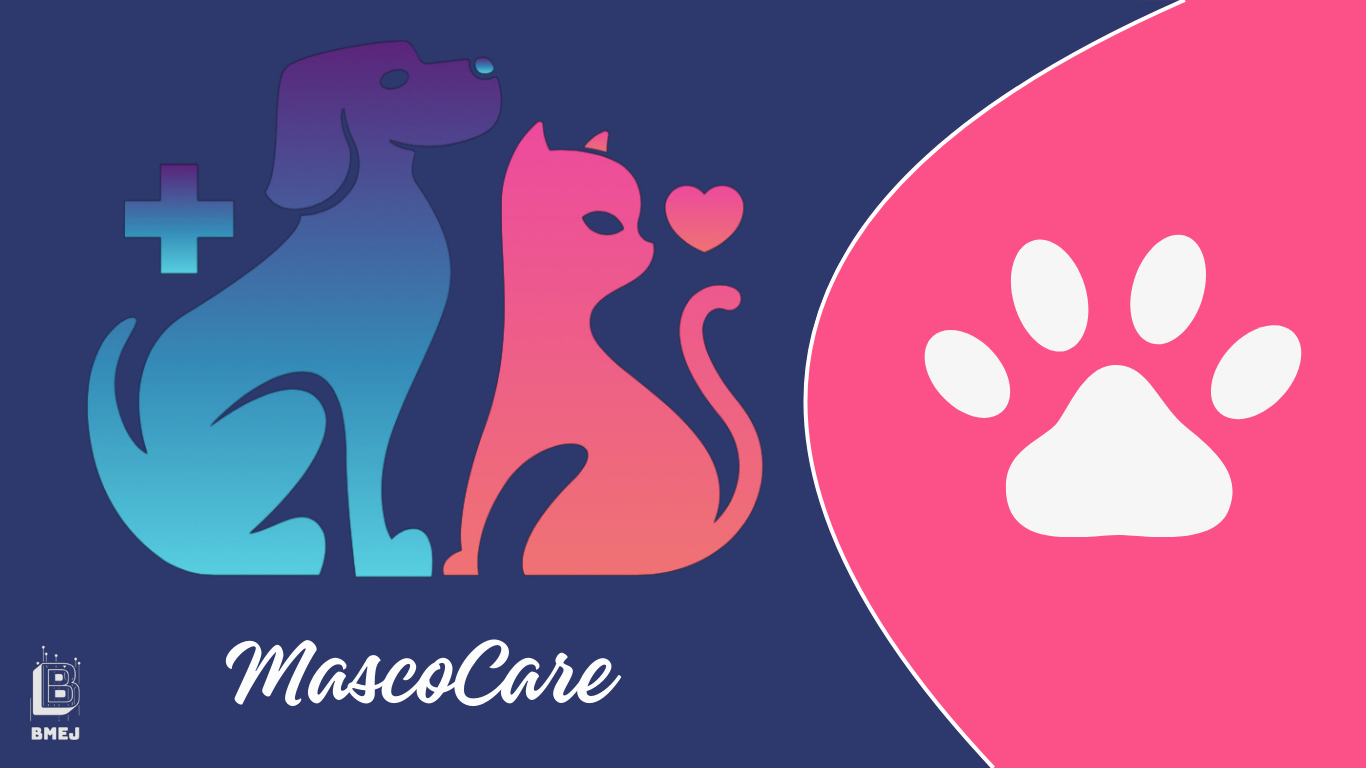
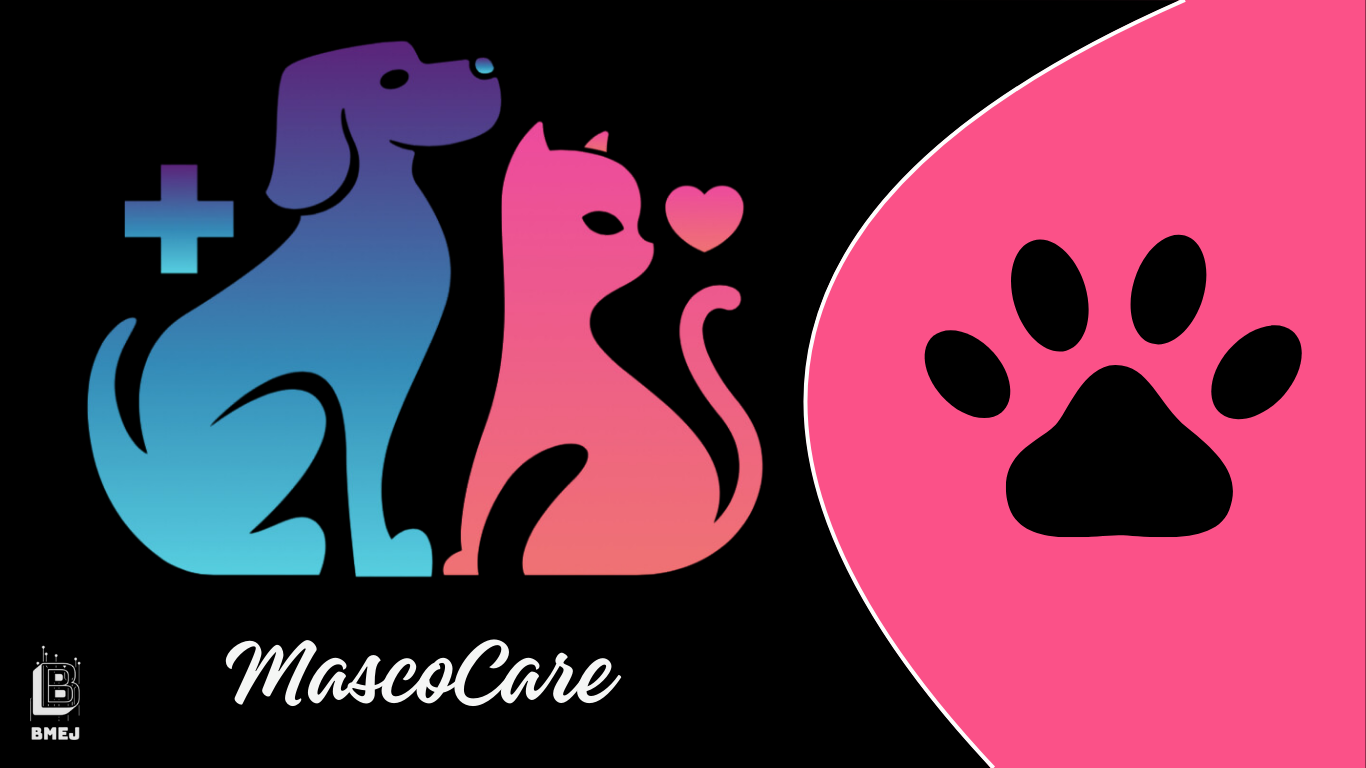
Change appearance the application to black mode - This is a second appearance version

diff --git a/src/styles.sass b/src/styles.sass
@@ -11,6 +11,7 @@ $input-autofill-blue-900: #183462
 $gradient-1: linear-gradient(to right, $logotype-1, $logotype-2)
 $gradient-2: linear-gradient(to right, $logotype-1, $logotype-3)
 $overall-white: rgb(255, 255, 255)
+$overall-black: rgb(0, 0, 0)
 $transparent: rgba(128, 128, 128, 0.4)
 $transparent-2: rgba(128, 128, 128, 0.2)
 // Define variables
@@ -27,12 +28,12 @@ $font-size-40px: 40px
     color: $overall-white
 @mixin pacifico-font-style()
     font-family: 'Pacifico', cursive !important
-    color: $overall-white
+    color: $overall-black
     font-style: normal
     font-size: 20px
 @mixin roboto-font-style()
     font-family: 'Roboto', sans-serif !important
-    color: $overall-white
+    color: $overall-black
     font-style: normal
     font-size: 20px
 
@@ -71,7 +72,9 @@ html,body
     @include pacifico-font-style()
 
 .color-white
-    color: $overall-white !important
+    color: $overall-white
+.color-black
+    color: $overall-black
 .gradient-1
     background-image: linear-gradient(to right, $logotype-1, $logotype-2)
 .background-transparent

diff --git a/src/app/util/security/logging/components/links-login/links-login.component.html b/src/app/util/security/logging/components/links-login/links-login.component.html
@@ -2,7 +2,7 @@
   <div
     class="gradient-1 surface-overlay border-round border-1 p-3 m-3 w-16rem min-h-full"
   >
-    <a href="#" class="color-white no-underline hover:underline">
+    <a href="#" class="color-black no-underline hover:underline">
       Did you forget your password?
     </a>
   </div>
@@ -12,11 +12,11 @@
   <div
     class="gradient-1 flex align-items-center justify-content-center w-2rem h-2rem bg-primary font-bold border-round m-2"
   >
-    <i class="pi pi-instagram"></i>
+    <i class="color-black pi pi-instagram"></i>
   </div>
   <div
     class="flex align-items-center justify-content-center w-2rem h-2rem bg-primary font-bold border-round m-2"
   >
-    <i class="pi pi-facebook"></i>
+    <i class="color-black pi pi-facebook"></i>
   </div>
 </div>

diff --git a/src/app/util/security/logging/logging_form/logging-form.component.html b/src/app/util/security/logging/logging_form/logging-form.component.html
@@ -1,9 +1,9 @@
-<div id="security-main-title">Welcome to Mascocare</div>
+<div id="security-main-title">Welcome</div>
 <form [formGroup]="logginForm" (ngSubmit)="saveForm()">
   <div class="flex justify-content-center flex-wrap">
     <input
       type="text"
-      class="input text-base text-color surface-overlay p-2 border-1 border-solid surface-border border-round appearance-none outline-none focus:border-primary w-full m-2"
+      class="input text-base surface-overlay p-2 border-1 border-solid surface-border border-round appearance-none outline-none focus:border-primary w-full m-2"
       placeholder="Username"
       formControlName="username"
     />

diff --git a/src/app/util/security/logging/logging_form/logging-form.component.sass b/src/app/util/security/logging/logging_form/logging-form.component.sass
@@ -5,14 +5,15 @@
     @include align-completely()
 
 input::placeholder
-    color: $overall-white
+    color: $overall-black
     @include roboto-font-style()
 input:-webkit-autofill,
 input:-webkit-autofill:hover,
 input:-webkit-autofill:focus,
 input:-webkit-autofill:active
-    -webkit-box-shadow: 0 0 0 30px $input-autofill-blue-900 inset !important
-    -webkit-text-fill-color: $overall-white
+    -webkit-box-shadow: 0 0 0 30px $overall-black inset !important
+    -webkit-text-fill-color: $overall-black
 .input
     @include overall-input()
     @include roboto-font-style()
+    border-color: $overall-black !important

diff --git a/src/app/util/components/dialogs/overall_dialog/overall-dialog.component.html b/src/app/util/components/dialogs/overall_dialog/overall-dialog.component.html
@@ -8,7 +8,7 @@
     <div class="flex flex-column align-items-center">
       <p>{{ message }}</p>
       <p-progressSpinner
-        styleClass="w-4rem h-4rem"
+        styleClass="overall-black w-4rem h-4rem"
         strokeWidth="8"
         fill="var(--surface-ground)"
         animationDuration=".5s"

diff --git a/src/app/util/components/dialogs/overall_dialog/overall-dialog.component.sass b/src/app/util/components/dialogs/overall_dialog/overall-dialog.component.sass
@@ -5,4 +5,7 @@
 ::ng-deep .p-dialog .p-dialog-footer
     @include align-horizontally(center)
     background: $gradient-2
-    color: $overall-white
+    color: $overall-black
+
+::ng-deep .p-progress-spinner-circle
+    fill: $overall-black

diff --git a/src/app/util/components/dialogs/error_dialog/error-dialog.component.sass b/src/app/util/components/dialogs/error_dialog/error-dialog.component.sass
@@ -5,7 +5,7 @@
 ::ng-deep .p-dialog .p-dialog-footer
     @include align-horizontally(center)
     background: $error-red
-    color: $overall-white
+    color: $overall-black
 i
     font-size: 4rem
 ::ng-deep .error-gradient-button
